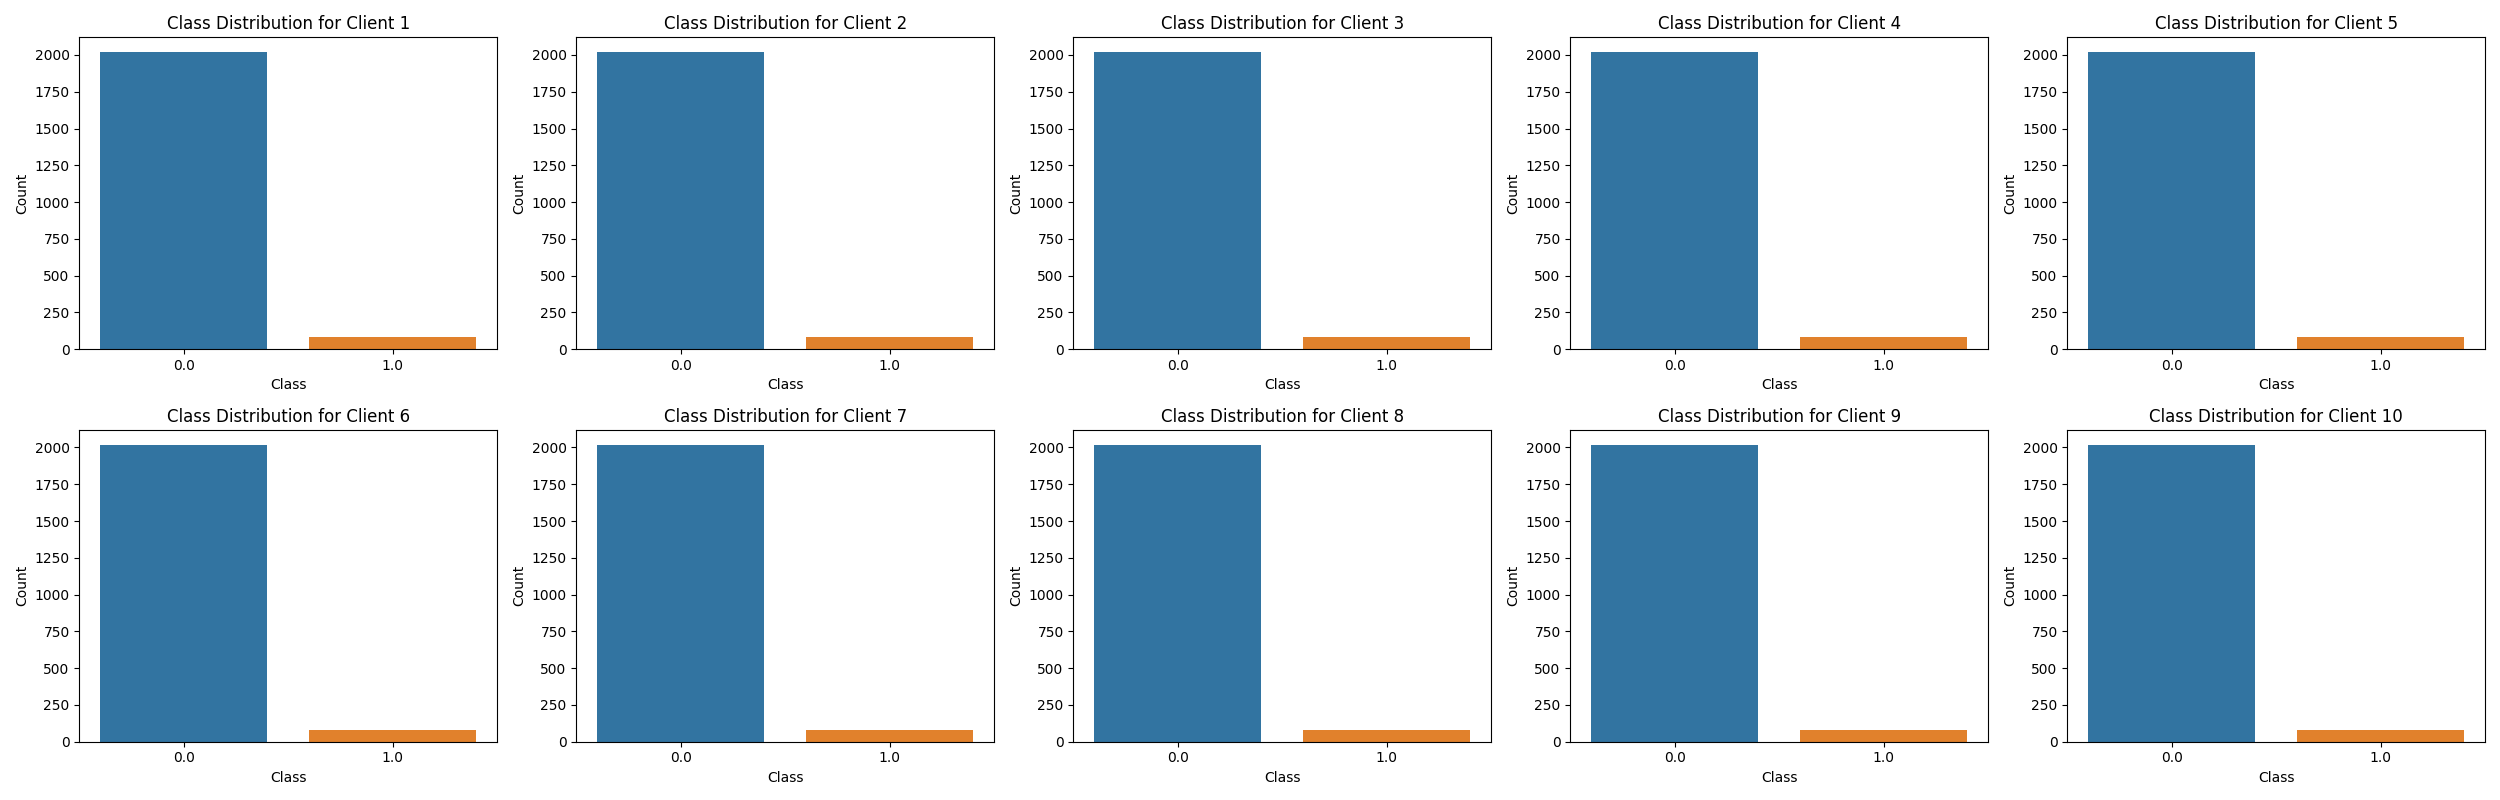
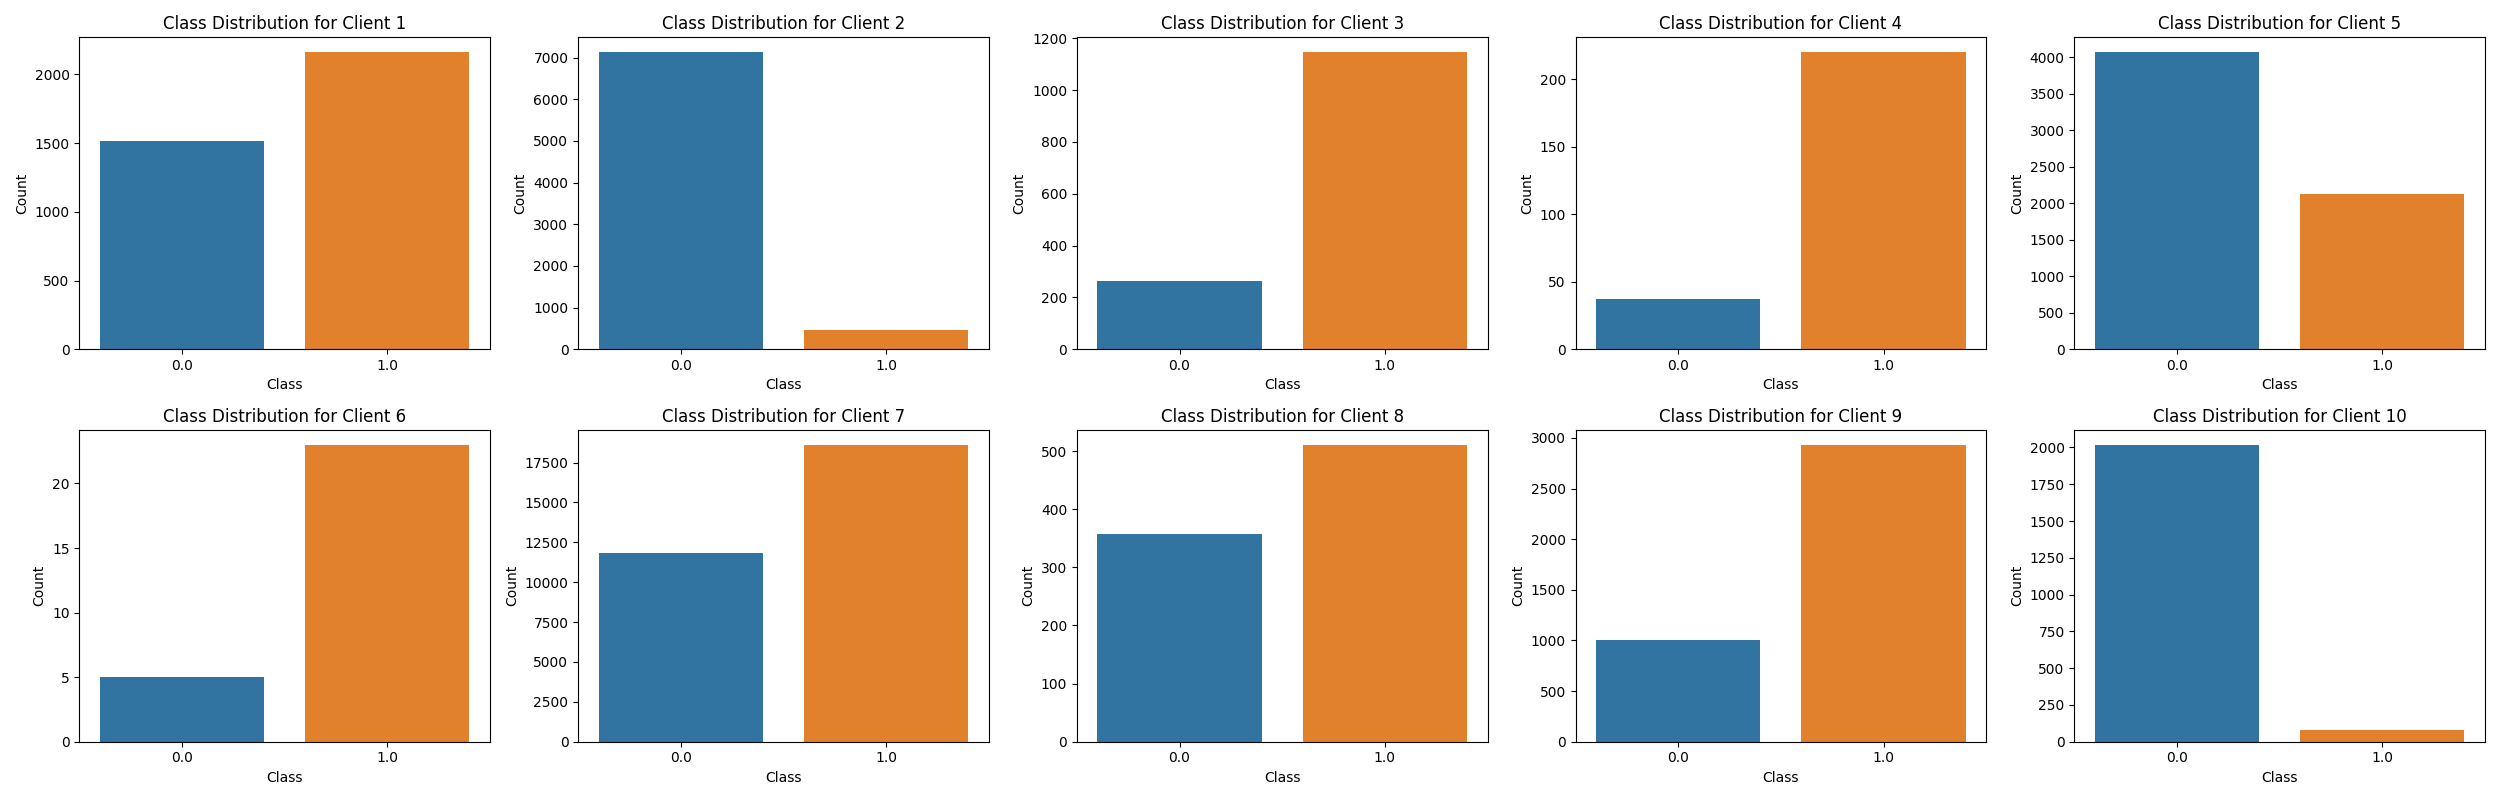
fix the combined figures.

diff --git a/sklearn_example/client.py b/sklearn_example/client.py
@@ -91,7 +91,7 @@ if __name__ == "__main__":
         # Plot the figures
         for i in range(10):
             plt.subplot(2, 5, i+1)
-            sns.countplot(x=y_train)
+            sns.countplot(x=train_data[i]["target"])
             plt.xlabel('Class')
             plt.ylabel('Count')
             plt.title(f'Class Distribution for Client {i+1}')
